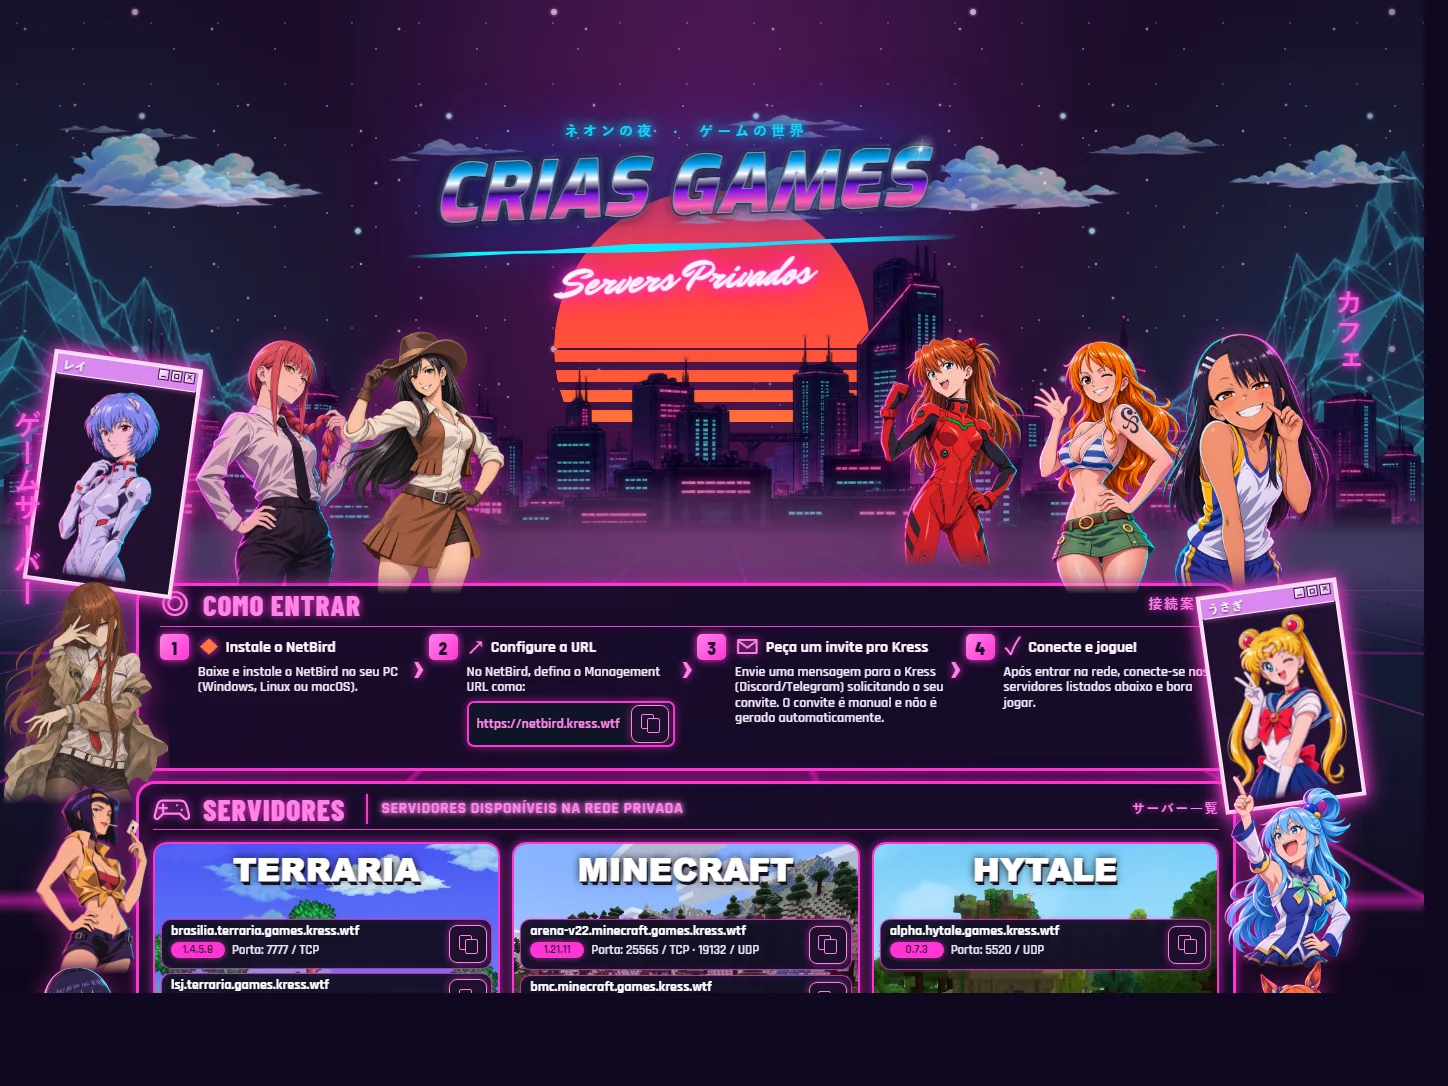
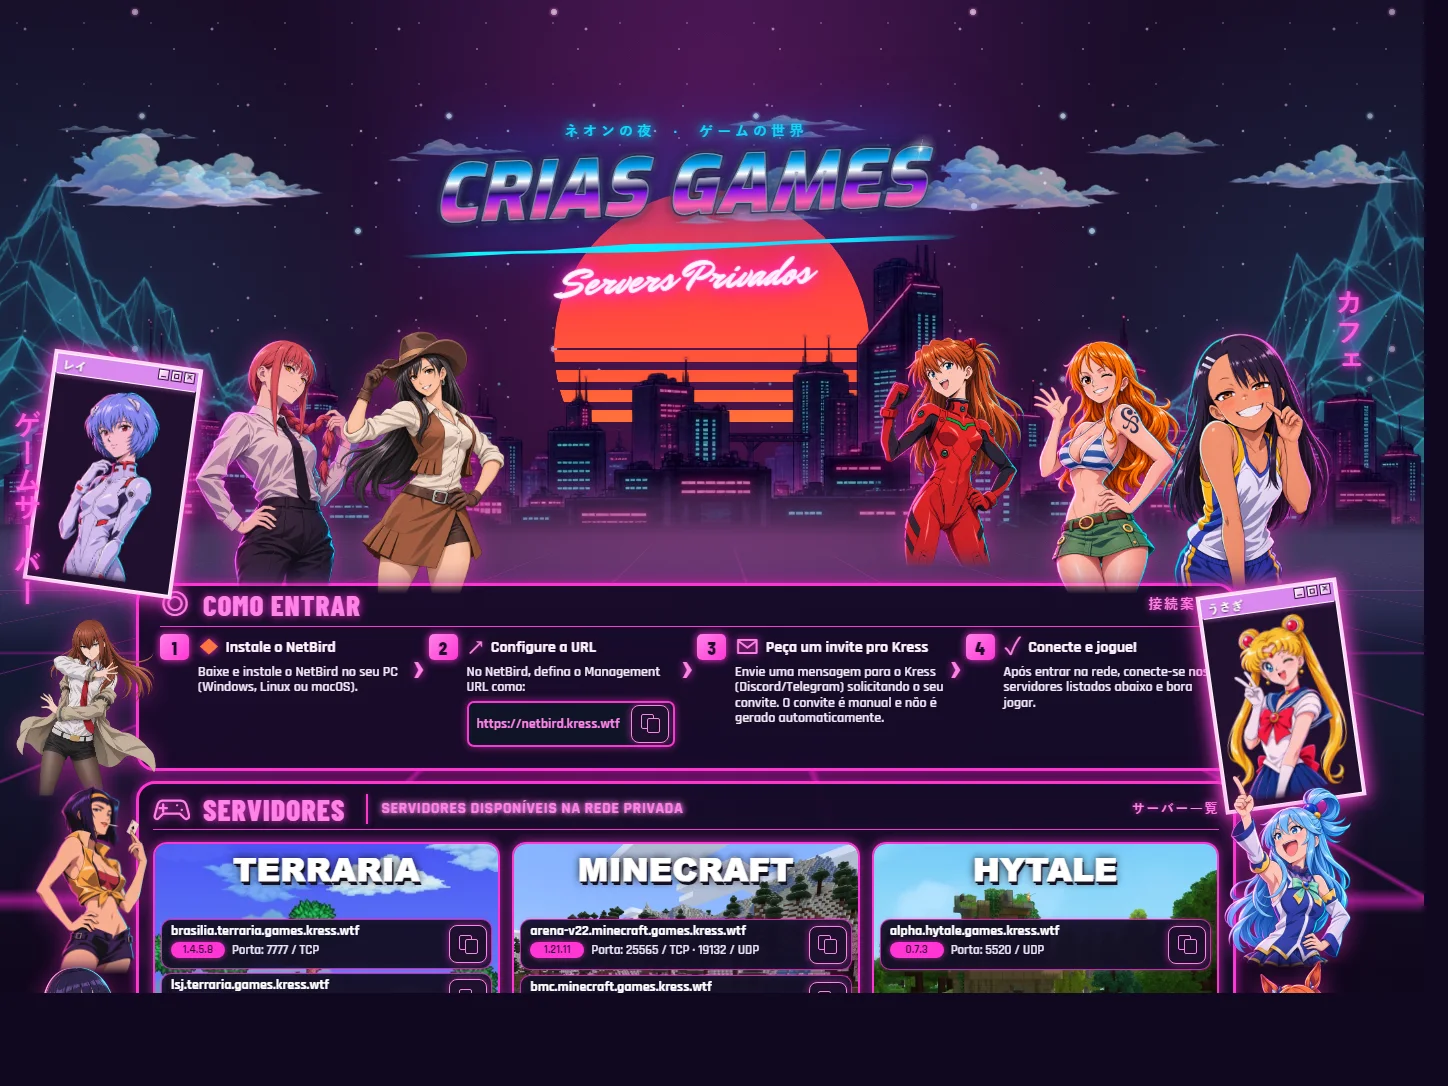
Clean up Kurisu art and add breathing room

Changed region(s): [[0.0, 0.5166, 0.1243, 0.7597]]

diff --git a/src/template.html b/src/template.html
@@ -52,7 +52,7 @@
     <img class="character character--asuka" src="./assets/art/asuka-4.webp" width="1280" height="1920" alt="">
     <img class="character character--nami" src="./assets/art/nami-2.webp" width="1280" height="1920" alt="">
     <img class="character character--nagatoro" src="./assets/art/nagatoro-4.webp" width="1280" height="1920" alt="">
-    <img class="character character--kurisu" src="./assets/art/kurisu-4.webp" width="1024" height="1536" alt="">
+    <img class="character character--kurisu" src="./assets/art/kurisu-5.webp" width="1250" height="1875" alt="">
     <img class="character character--faye" src="./assets/art/faye-2.webp" width="1280" height="1920" alt="">
     <img class="character character--hinata" src="./assets/art/hinata-2.webp" width="1280" height="1920" alt="">
     <img class="character character--rem" src="./assets/art/rem-2.webp" width="1280" height="1920" alt="">

diff --git a/docs/assets.md b/docs/assets.md
@@ -14,7 +14,7 @@ The mockup and `docs/mockup-reference.md` guided character traits, palette and c
 | Asuka Langley | `asuka-4.webp` (`asuka-3.webp`, `asuka-2.webp`, `asuka-1.webp`, `asuka.webp` retained) | Current image `exec-bb38c2b9`; orange hair, blue eyes, red pilot suit and raised fist. Approved by the user; the preceding numbered variant is also retained. | Lossless WebP, 1280 × 1920, ImageMagick-padded from `asuka-3.png`; independent portrait. |
 | Nami | `nami-2.webp` (`nami-1.webp`, `nami.webp` retained) | ImageGen `exec-9eb8bd38`; orange hair, wink, spiral tattoo, blue-white top and lively wave; generated from Nami's reference crop. | Lossless WebP, 1280 × 1920, ImageMagick-padded from `nami-1.png`; independent portrait. |
 | Hayase Nagatoro | `nagatoro-4.webp` (`nagatoro-3.webp`, `nagatoro-2.webp`, `nagatoro-1.webp`, `nagatoro.webp` retained) | ImageGen `exec-2d36d485`; dark hair and clips, warm tan skin, playful grin, sports clothes and corrected raised hand. See [`character-hand-revisions.md`](character-hand-revisions.md). | Lossless WebP, 1280 × 1920, resized from the transparent `nagatoro-4.png` master; independent portrait. |
-| Kurisu Makise | `kurisu-4.webp` (`kurisu-3.webp`, `kurisu-2.webp`, `kurisu-1.webp`, `kurisu.webp` retained) | ImageGen `exec-407cff45`; fresh rendering from the supplied visual-novel design notes: textured, irregular painterly linework, copper hair, gray-violet eyes, off-shoulder khaki coat, rumpled shirt, red tie, black shorts, white-and-gold belt and dark patterned tights. Dramatic crossed-arm pose, natural proportions, cropped above the knees. | Transparent WebP, 1024 × 1536; alpha verified. |
+| Kurisu Makise | `kurisu-5.webp` (`kurisu-4.webp`, `kurisu-3.webp`, `kurisu-2.webp`, `kurisu-1.webp`, `kurisu.webp` retained) | ImageGen `exec-2e4d36e9`; clean digital visual-novel cutout with the supplied stance reference, copper hair, gray-violet eyes, off-shoulder khaki coat, rumpled shirt, red tie, black shorts, white-and-gold belt and dark tights. Smooth matte shading, no distressed texture, natural proportions and an above-knee crop. | Transparent WebP, 1250 × 1875; 82–90px side padding and over 200px top/bottom clearance. |
 | Faye Valentine | `faye-2.webp` (`faye-1.webp`, `faye.webp` retained) | ImageGen `exec-3e3e5304`; short dark-purple hair, yellow headband and jacket, playing card and sideways glance. | Lossless WebP, 1280 × 1920, ImageMagick-padded from `faye-1.png`; unframed independent portrait. |
 | Hinata Hyuga | `hinata-2.webp` (`hinata-1.webp`, `hinata.webp` retained) | ImageGen `exec-49933625`; long indigo hair, pale lavender eyes and high-collar jacket; generated from Hinata's reference crop. | Lossless WebP, 1280 × 1920, ImageMagick-padded from `hinata-1.png`; unframed independent portrait. |
 | Rem | `rem-2.webp` (`rem-1.webp`, `rem.webp` retained) | ImageGen `exec-17d53740`; blue bob, blue eye, maid headband and flowers, peace-sign pose. | Lossless WebP, 1280 × 1920, ImageMagick-padded from `rem-1.png`; unframed independent portrait. |

diff --git a/docs/review/visual-review.md b/docs/review/visual-review.md
@@ -211,4 +211,4 @@ The [1448px upper-page capture](screenshots/tifa-clouds-1448-2026-11-10.webp) an
 
 ## Kurisu visual-novel portrait — 2026-11-11
 
-Replaced the previous mixed-style cutout with a fresh transparent portrait based on the supplied visual-novel design notes. Its irregular painterly linework and dry texture carry through the hair, coat, shirt and shadows; the outfit uses the coat dropped onto the upper arms, white shirt, red tie, dark shorts, white-and-gold belt and patterned tights. The dramatic crossed-arm pose keeps natural proportions and crops above the knees. Earlier numbered portraits remain in the asset archive. Desktop captures: [1448px](screenshots/kurisu-visual-novel-1448-2026-11-11.webp) and [1920px](screenshots/kurisu-visual-novel-1920-2026-11-11.webp).
+Replaced the previous heavily textured cutout with a cleaner transparent portrait that follows the user's new stance reference. It uses tidy linework, smooth matte shading and clear colors while retaining the novel's off-shoulder khaki coat, white shirt, red tie, dark shorts, white-and-gold belt and tights. The figure has natural proportions, an above-knee crop and generous transparent breathing room on the canvas; earlier numbered portraits remain archived. Desktop captures: [1448px](screenshots/kurisu-visual-novel-1448-2026-11-11.webp) and [1920px](screenshots/kurisu-visual-novel-1920-2026-11-11.webp).
